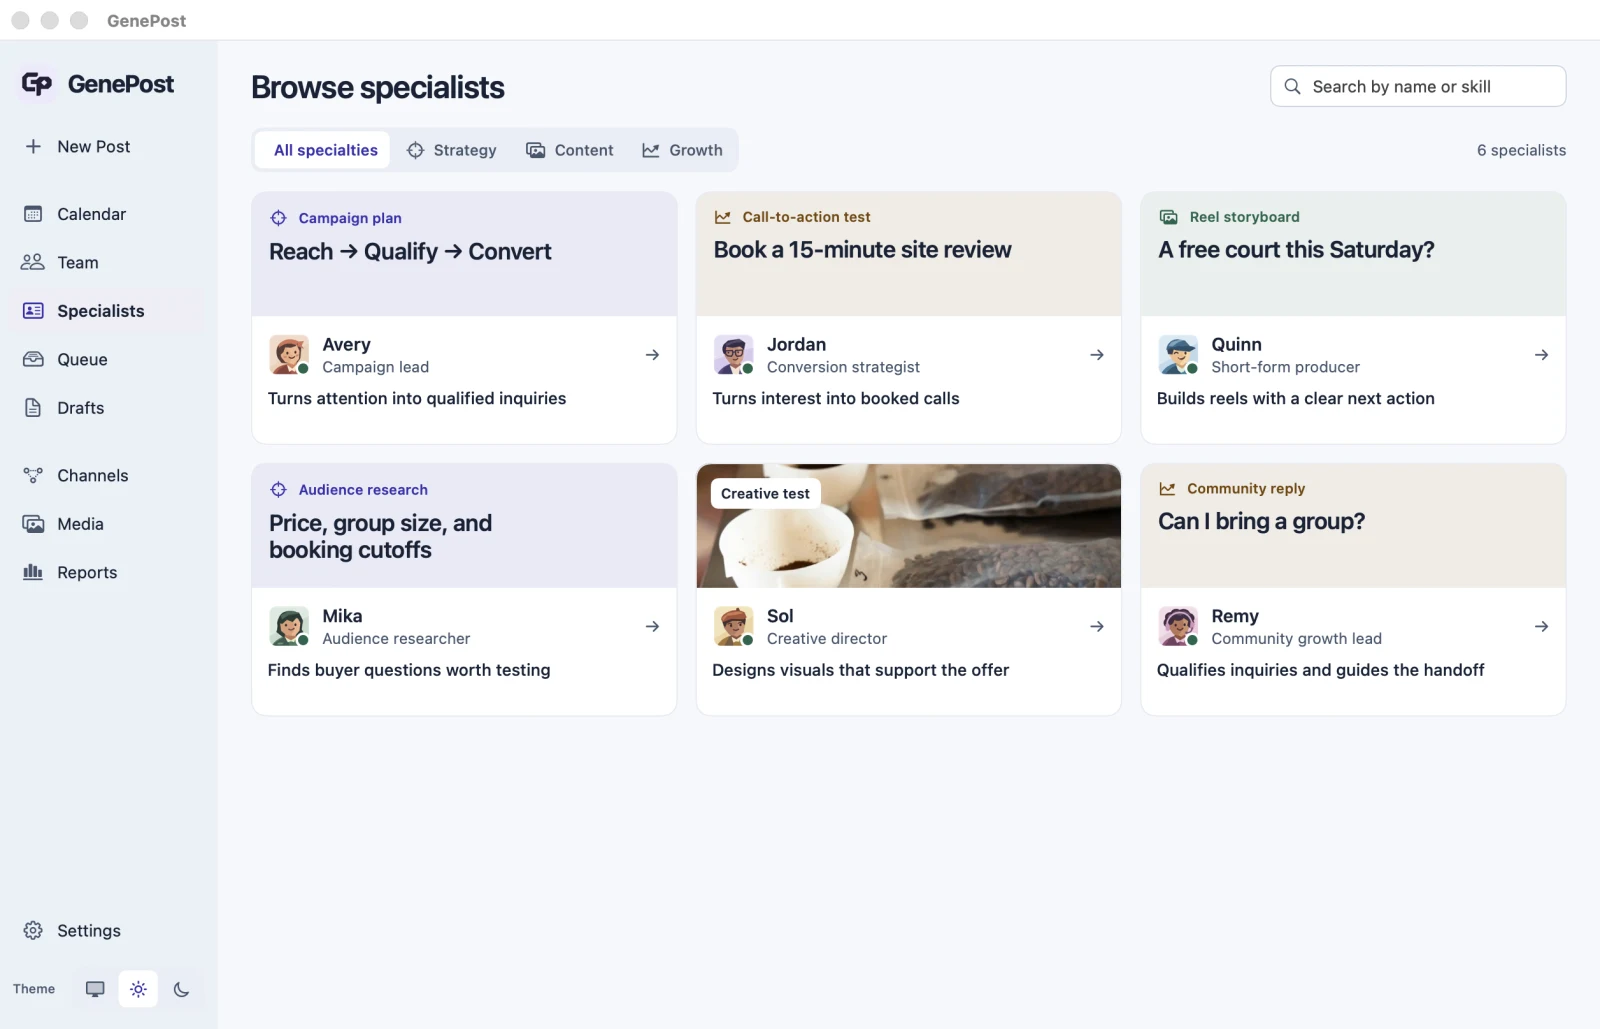
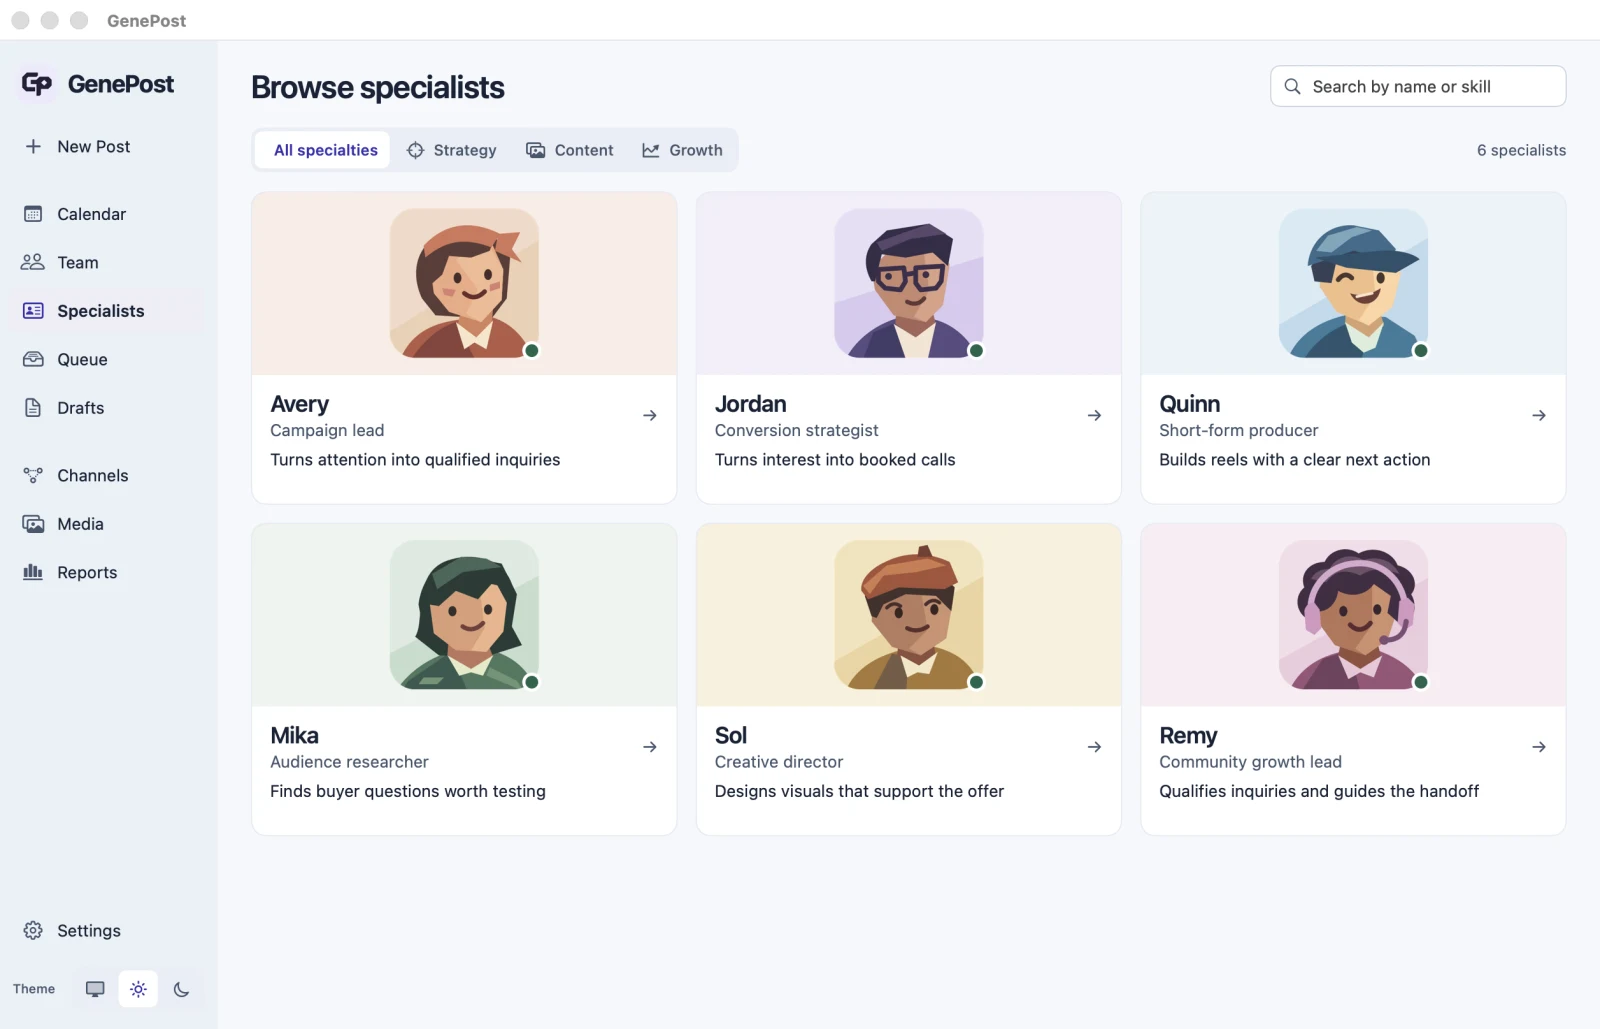
Lead specialist cards with larger portraits

diff --git a/index.html b/index.html
@@ -13,8 +13,8 @@
   <meta property="og:image" content="https://selwynuy.github.io/GenePost/assets/calendar.webp">
   <link rel="icon" href="./assets/genepost.svg?v=531d221c39" type="image/svg+xml">
   <link rel="stylesheet" href="./assets/site.css?v=4427fadfb1">
-  <link rel="stylesheet" href="./assets/demo.css?v=aa538a6b48">
-  <script src="./assets/site.js?v=0b88978bf0" defer></script>
+  <link rel="stylesheet" href="./assets/demo.css?v=1de403d023">
+  <script src="./assets/site.js?v=360bfe53dc" defer></script>
 </head>
 <body>
   <a class="skip" href="#main">Skip to content</a>
@@ -143,7 +143,7 @@
   </div>
 </section>
 
-<script type="application/json" id="demo-specialists">[{"name": "Avery", "role": "Campaign lead", "specialty": "Turns attention into qualified inquiries", "category": "strategy", "strengths": ["Offer and channel strategy", "Lead qualification"], "workingStyle": "Works backward from a qualified inquiry, then gives each channel a job and a clear handoff.", "skillName": "Plan a lead campaign", "sampleApproach": "I’d define a qualified booking first, then build a sequence that answers objections and gives interested people one way to reserve.", "portfolioTitle": "Fill a tasting session", "portfolioSample": "Reach · Show the tasting table and what the session includes.\n\nQualify · Answer when it runs and how many people can join.\n\nConvert · Send one reservation link. Review confirmed seats by channel.", "sampleFormat": "Campaign plan", "sampleExcerpt": "Reach → Qualify → Convert", "avatar": "fold.svg?v=58e0529162"}, {"name": "Jordan", "role": "Conversion strategist", "specialty": "Turns interest into booked calls", "category": "growth", "strengths": ["Offer and objection analysis", "Conversion experiments"], "workingStyle": "Looks for the decision people avoid, then writes the offer and next step around that objection.", "skillName": "Audit the conversion path", "sampleApproach": "I’d compare what the post promises with the first page people land on, then test one CTA tied to a qualified call.", "portfolioTitle": "Website inquiries → booked calls", "portfolioSample": "Friction · “Get in touch” leaves the next step unclear.\n\nTest · Compare “Get in touch” with “Book a 15-minute site review” when that offer is available.\n\nMeasure · Qualified calls booked per landing-page visit.", "sampleFormat": "Call-to-action test", "sampleExcerpt": "Book a 15-minute site review", "avatar": "folio.svg?v=0bef797afb"}, {"name": "Quinn", "role": "Short-form producer", "specialty": "Builds reels with a clear next action", "category": "content", "strengths": ["Hooks and retention", "Shoot-ready scripts"], "workingStyle": "Shows the payoff in the first beat, then uses real footage to prove the point.", "skillName": "Script a conversion reel", "sampleApproach": "I’d cut straight to open booking slots, show the action, and give viewers one link or instruction to act on.", "portfolioTitle": "Reel · Book a court", "portfolioSample": "0–3s · Show the open slots. “A free court this Saturday?”\n\n3–10s · Tap a time and show the booking screen.\n\n10–15s · Send viewers to the booking page. Track visits from the reel.", "sampleFormat": "Reel storyboard", "sampleExcerpt": "A free court this Saturday?", "avatar": "spark.svg?v=ccbed79afe"}, {"name": "Mika", "role": "Audience researcher", "specialty": "Finds buyer questions worth testing", "category": "strategy", "strengths": ["Public-source research", "Buying intent and objections"], "workingStyle": "Looks for recurring decision questions, then separates observed evidence from what still needs testing.", "skillName": "Map buyer intent", "sampleApproach": "I’d look at public booking pages and FAQs, map the questions buyers ask before reserving, and choose one question to answer first.", "portfolioTitle": "What holds a café booking back?", "portfolioSample": "Look at public booking pages and FAQs for questions about price, group size, and booking cutoffs.\n\nTest the top unresolved question in a reminder. Count booking starts and confirmed seats separately.", "sampleFormat": "Audience research", "sampleExcerpt": "Price, group size, and booking cutoffs", "avatar": "grid.svg?v=70b04b332f"}, {"name": "Sol", "role": "Creative director", "specialty": "Designs visuals that support the offer", "category": "content", "strengths": ["Creative testing", "Feed framing"], "workingStyle": "Makes the offer legible in the first frame and changes one visual variable at a time.", "skillName": "Brief a creative test", "sampleApproach": "I’d show the tasting table in one variant and the experience in the other, with the same offer and reservation CTA.", "portfolioTitle": "Instagram · Tasting creative test", "portfolioSample": "Try a tight shot of the tasting bowls against a wider table scene. Keep the caption and reservation CTA the same. Compare booking starts, then confirmed seats.", "portfolioImage": "portfolio-tasting.jpg", "sampleFormat": "Creative test", "sampleExcerpt": "Tasting bowls or a wider table?", "avatar": "lens.svg?v=37ddfbdb13"}, {"name": "Remy", "role": "Community growth lead", "specialty": "Qualifies inquiries and guides the handoff", "category": "growth", "strengths": ["Lead triage", "Helpful conversation"], "workingStyle": "Answers the question, asks one qualifying detail, and makes the handoff clear.", "skillName": "Qualify inbound interest", "sampleApproach": "I’d sort the repeated questions by buying intent and draft replies that move interested people toward a reservation.", "portfolioTitle": "Turn a tasting question into a booking", "portfolioSample": "“Can I bring a group?”\n“Send us the group size and preferred time so we can check which seats are open.”\n\nTrack replies with a date and group size, then confirmed bookings.", "sampleFormat": "Community reply", "sampleExcerpt": "Can I bring a group?", "avatar": "reply.svg?v=68d75650d8"}]</script>
+<script type="application/json" id="demo-specialists">[{"name": "Avery", "role": "Campaign lead", "specialty": "Turns attention into qualified inquiries", "category": "strategy", "strengths": ["Offer and channel strategy", "Lead qualification"], "workingStyle": "Works backward from a qualified inquiry, then gives each channel a job and a clear handoff.", "skillName": "Plan a lead campaign", "sampleApproach": "I’d define a qualified booking first, then build a sequence that answers objections and gives interested people one way to reserve.", "portfolioTitle": "Fill a tasting session", "portfolioSample": "Reach · Show the tasting table and what the session includes.\n\nQualify · Answer when it runs and how many people can join.\n\nConvert · Send one reservation link. Review confirmed seats by channel.", "sampleFormat": "Campaign plan", "portraitTone": "f4d9ca", "avatar": "fold.svg?v=58e0529162"}, {"name": "Jordan", "role": "Conversion strategist", "specialty": "Turns interest into booked calls", "category": "growth", "strengths": ["Offer and objection analysis", "Conversion experiments"], "workingStyle": "Looks for the decision people avoid, then writes the offer and next step around that objection.", "skillName": "Audit the conversion path", "sampleApproach": "I’d compare what the post promises with the first page people land on, then test one CTA tied to a qualified call.", "portfolioTitle": "Website inquiries → booked calls", "portfolioSample": "Friction · “Get in touch” leaves the next step unclear.\n\nTest · Compare “Get in touch” with “Book a 15-minute site review” when that offer is available.\n\nMeasure · Qualified calls booked per landing-page visit.", "sampleFormat": "Call-to-action test", "portraitTone": "e7def5", "avatar": "folio.svg?v=0bef797afb"}, {"name": "Quinn", "role": "Short-form producer", "specialty": "Builds reels with a clear next action", "category": "content", "strengths": ["Hooks and retention", "Shoot-ready scripts"], "workingStyle": "Shows the payoff in the first beat, then uses real footage to prove the point.", "skillName": "Script a conversion reel", "sampleApproach": "I’d cut straight to open booking slots, show the action, and give viewers one link or instruction to act on.", "portfolioTitle": "Reel · Book a court", "portfolioSample": "0–3s · Show the open slots. “A free court this Saturday?”\n\n3–10s · Tap a time and show the booking screen.\n\n10–15s · Send viewers to the booking page. Track visits from the reel.", "sampleFormat": "Reel storyboard", "portraitTone": "d7e9f3", "avatar": "spark.svg?v=ccbed79afe"}, {"name": "Mika", "role": "Audience researcher", "specialty": "Finds buyer questions worth testing", "category": "strategy", "strengths": ["Public-source research", "Buying intent and objections"], "workingStyle": "Looks for recurring decision questions, then separates observed evidence from what still needs testing.", "skillName": "Map buyer intent", "sampleApproach": "I’d look at public booking pages and FAQs, map the questions buyers ask before reserving, and choose one question to answer first.", "portfolioTitle": "What holds a café booking back?", "portfolioSample": "Look at public booking pages and FAQs for questions about price, group size, and booking cutoffs.\n\nTest the top unresolved question in a reminder. Count booking starts and confirmed seats separately.", "sampleFormat": "Audience research", "portraitTone": "dbeae0", "avatar": "grid.svg?v=70b04b332f"}, {"name": "Sol", "role": "Creative director", "specialty": "Designs visuals that support the offer", "category": "content", "strengths": ["Creative testing", "Feed framing"], "workingStyle": "Makes the offer legible in the first frame and changes one visual variable at a time.", "skillName": "Brief a creative test", "sampleApproach": "I’d show the tasting table in one variant and the experience in the other, with the same offer and reservation CTA.", "portfolioTitle": "Instagram · Tasting creative test", "portfolioSample": "Try a tight shot of the tasting bowls against a wider table scene. Keep the caption and reservation CTA the same. Compare booking starts, then confirmed seats.", "portfolioImage": "portfolio-tasting.jpg", "sampleFormat": "Creative test", "portraitTone": "f3e3bb", "avatar": "lens.svg?v=37ddfbdb13"}, {"name": "Remy", "role": "Community growth lead", "specialty": "Qualifies inquiries and guides the handoff", "category": "growth", "strengths": ["Lead triage", "Helpful conversation"], "workingStyle": "Answers the question, asks one qualifying detail, and makes the handoff clear.", "skillName": "Qualify inbound interest", "sampleApproach": "I’d sort the repeated questions by buying intent and draft replies that move interested people toward a reservation.", "portfolioTitle": "Turn a tasting question into a booking", "portfolioSample": "“Can I bring a group?”\n“Send us the group size and preferred time so we can check which seats are open.”\n\nTrack replies with a date and group size, then confirmed bookings.", "sampleFormat": "Community reply", "portraitTone": "f3dce8", "avatar": "reply.svg?v=68d75650d8"}]</script>
 <template id="demo-app-template">
   <div class="demo-app" data-theme="dark">
     <div class="demo-titlebar">

diff --git a/assets/demo.css b/assets/demo.css
@@ -114,7 +114,6 @@
   --app-solid: #c9aefb;
   --app-solid-text: #211337;
   --app-success: #a0e4b9;
-  --app-growth: #ffd098;
   --app-error: #ffb5ca;
   color-scheme: dark;
   background: var(--app-bg);
@@ -136,7 +135,6 @@
   --app-solid: #4e2f87;
   --app-solid-text: #fff;
   --app-success: #226448;
-  --app-growth: #784b1b;
   --app-error: #972e50;
   color-scheme: light;
 }
@@ -281,6 +279,7 @@
 }
 .candidate .agent-presence { transition: transform 200ms var(--ease-arrive); }
 .specialist-directory { container-type: inline-size; }
+.demo-workspace:has(.specialist-directory) .app-heading { margin-bottom: 10px; }
 .specialist-search { position: relative; min-width: 0; }
 .specialist-search > .symbol {
   position: absolute; top: 50%; left: 10px; transform: translateY(-50%);
@@ -290,7 +289,7 @@
   padding: 6px 9px 6px 31px; width: 190px; font-size: 12px;
 }
 .specialist-search input::placeholder { color: var(--app-muted); }
-.specialist-filters { display: flex; justify-content: space-between; flex-wrap: wrap; gap: 8px; align-items: center; margin-bottom: 12px; }
+.specialist-filters { display: flex; justify-content: space-between; flex-wrap: wrap; gap: 8px; align-items: center; margin-bottom: 9px; }
 .specialist-filters > span { color: var(--app-muted); font-size: 11px; font-variant-numeric: tabular-nums; }
 .demo-app .specialty-filter { min-height: 29px; padding: 4px 8px; font-size: 11px; }
 .market-grid { display: grid; grid-template-columns: repeat(2, minmax(0, 1fr)); gap: 9px; }
@@ -306,30 +305,23 @@
   border-color: var(--app-line); border-radius: 9px; background: var(--app-fill); text-align: left;
 }
 .demo-app .market-card:hover { border-color: var(--app-accent); background: var(--app-fill); }
-.market-cover {
-  --sample-tone: var(--app-accent);
-  display: flex; flex-direction: column; gap: 4px; position: relative; min-height: 73px;
-  padding: 9px 10px; background: color-mix(in srgb, var(--sample-tone) 11%, var(--app-fill));
-  overflow-wrap: anywhere;
+.market-portrait {
+  display: grid; place-items: center; min-height: 104px;
+  background: color-mix(in srgb, var(--portrait-tone) 18%, var(--app-fill));
 }
-.market-cover.content { --sample-tone: var(--app-success); }
-.market-cover.growth { --sample-tone: var(--app-growth); }
-.market-cover small { color: var(--sample-tone); font-size: 11px; }
-.market-cover strong { color: var(--app-ink); font-size: 13px; line-height: 1.24; }
-.market-cover.with-art > img { position: absolute; inset: 0; width: 100%; height: 100%; object-fit: cover; }
-.market-cover.with-art small {
-  position: relative; align-self: flex-start; padding: 2px 5px;
-  border-radius: 4px; background: var(--app-fill); color: var(--app-ink);
+.demo-app[data-theme="light"] .market-portrait {
+  background: color-mix(in srgb, var(--portrait-tone) 49%, var(--app-fill));
 }
-.market-info { display: grid; gap: 5px; padding: 8px 9px; }
-.market-person { display: grid; grid-template-columns: auto minmax(0, 1fr) auto; gap: 6px; align-items: center; }
+.market-portrait .agent-avatar { width: 96px; height: 96px; }
+.market-portrait .agent-presence i { width: 13px; height: 13px; right: 4px; bottom: 4px; }
+.market-info { padding: 6px 9px; }
+.market-person { display: grid; grid-template-columns: minmax(0, 1fr) auto; gap: 6px; align-items: center; }
 .market-person strong, .market-person small { display: block; line-height: 1.2; }
-.market-person strong { font-size: 12px; }
+.market-person strong { font-size: 15px; }
 .market-person small, .market-person > .symbol { color: var(--app-muted); font-size: 11px; }
-.market-person .agent-avatar { width: 27px; height: 27px; }
-.market-specialty { color: var(--app-ink); font-size: 11px; font-weight: 540; line-height: 1.35; overflow-wrap: anywhere; }
 .directory-profile { display: grid; gap: 10px; max-width: 590px; margin-inline: auto; }
 .directory-person { display: flex; align-items: center; gap: 9px; flex-wrap: wrap; }
+.directory-person .agent-avatar { width: 49px; height: 49px; }
 .directory-person > div { flex: 0 1 auto; }
 .directory-person h2 { color: var(--app-ink); font-size: 26px; line-height: 1.15; }
 .directory-person p { color: var(--app-muted); font-size: 12px; }

diff --git a/assets/site.js b/assets/site.js
@@ -398,14 +398,11 @@ function mountDemo(root, preview = false) {
   }
 
   function specialistCard(person) {
-    const art = person.portfolioImage ? '<img src="' + assets + 'team-marks/' + person.portfolioImage +
-      '" alt="" width="320" height="180">' : '';
     return action('open-specialist',
-      '<span class="market-cover ' + person.category + (art ? ' with-art' : '') + '">' + art +
-      '<small>' + escapeHTML(person.sampleFormat) + '</small>' + (art ? '' : '<strong>' + escapeHTML(person.sampleExcerpt) + '</strong>') +
-      '</span><span class="market-info"><span class="market-person">' + onlineAvatar(person) + '<span><strong>' +
+      '<span class="market-portrait" style="--portrait-tone:#' + escapeHTML(person.portraitTone) + '">' + onlineAvatar(person) +
+      '</span><span class="market-info"><span class="market-person"><span><strong>' +
       escapeHTML(person.name) + '</strong><small>' + escapeHTML(person.role) + '</small></span>' + icon('right') +
-      '</span><span class="market-specialty">' + escapeHTML(person.specialty) + '</span></span>',
+      '</span></span>',
       { value: person.name, kind: 'market-card', title: person.name + ', ' + person.role + ', Online' });
   }
 
